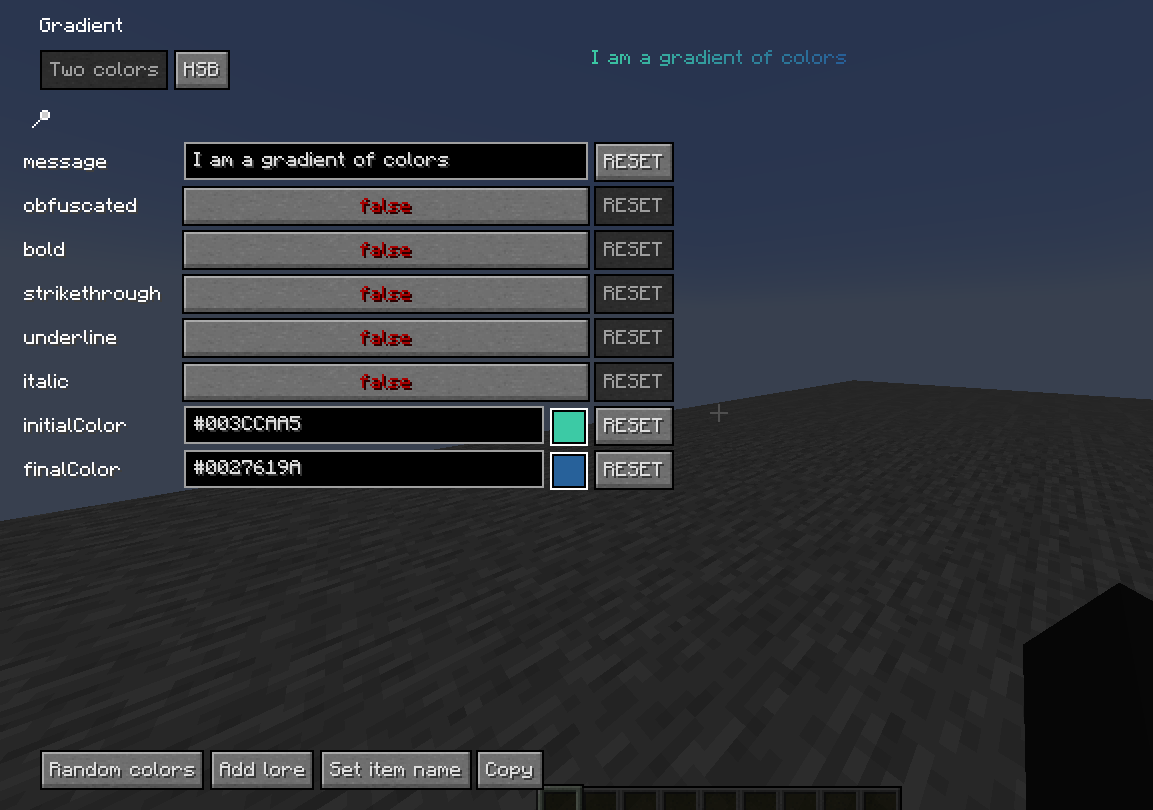
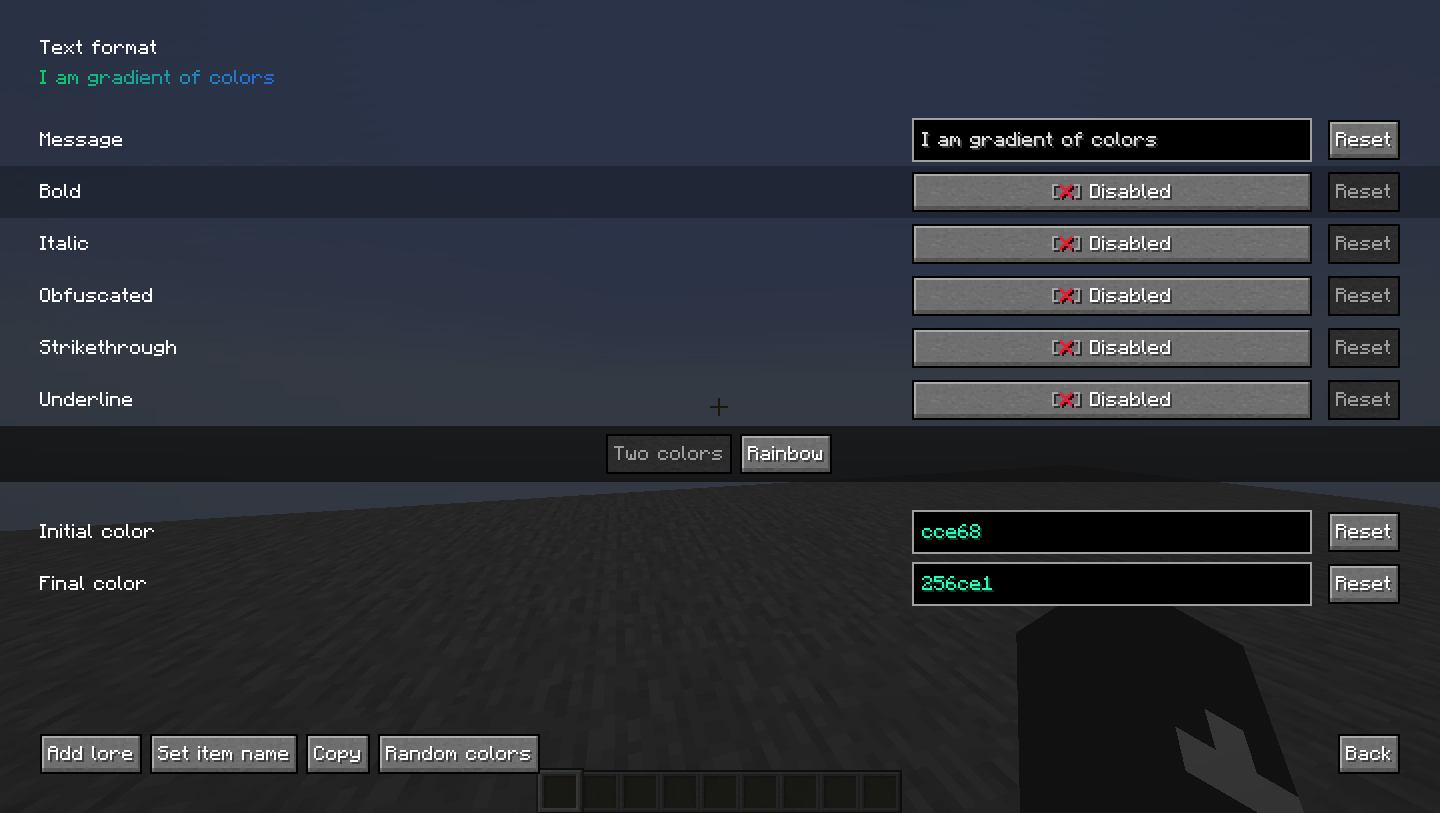
Update README.md and images * add special thanks, add link to modrinth and change dependency from malilib to owo-lib

diff --git a/README.md b/README.md
@@ -7,17 +7,19 @@
 
 
 [![Discord invite](https://img.shields.io/badge/Discord-5865F2?logo=discord&logoColor=white&style=for-the-badge&logo=appveyor)](https://discord.com/invite/y3GcaUNgCr)
-[![Downloads](https://img.shields.io/github/downloads/Zailer43/FZMM-Mod/total?color=red&logo=github&style=for-the-badge)](https://discord.com/invite/y3GcaUNgCr)
+[![Downloads](https://img.shields.io/github/downloads/Zailer43/FZMM-Mod/total?color=red&logo=github&style=for-the-badge)](https://github.com/Zailer43/FZMM-Mod/actions)
+[![Modrinth](https://modrinth-utils.vercel.app/api/badge/downloads?id=fzmm&logo=true&style=for-the-badge)](https://modrinth.com/mod/fzmm)
+
 
 A fabric mod that is mainly for editing or creating NBT of items in creative, but it also has a few utilities.
 
 </div>
 
 ## How to use?
-The default key to use the mod is `Z`, there are also some client-side commands with `/fzmm`
+The default key to use the mod is `Z` (can be changed in controls), there are also some client-side commands with `/fzmm`
 
 ## Dependencies
-* [Malilib](https://www.curseforge.com/minecraft/mc-mods/malilib)
+* [owo-lib](https://modrinth.com/mod/owo-lib)
 * [Fabric API](https://modrinth.com/mod/fabric-api)
 
 ## Imagetext
@@ -45,6 +47,7 @@ A generator of colored characters that make an image.
 ### GUI
 
 ![Imagetext gui](images/imagetext_gui.png)
+
 </details>
 
 ## Gradient
@@ -59,13 +62,14 @@ Note: when doing this I didn't know [PlaceHolderAPI](https://github.com/Patbox/F
 
 ![Two colors](images/gradient_two_colors.png)
 
-### HSB (rainbow)
+### Rainbow
 
-![hsb](images/gradient_hsb.png)
+![Rainbow](images/gradient_rainbow.png)
 
 ### Item example
 
 ![Item example](images/gradient_item.png)
+
 </details>
 
 ## Player Statue
@@ -93,6 +97,7 @@ It also allows 128x128 skins.
 ### GUI
 
 ![Player statue GUI](images/player_statue_gui.png)
+
 </details>
 
 ## Head generator
@@ -111,14 +116,17 @@ Disclaimer: the second layer of the original skin is removed (for now).
 ### Examples
 
 ![Examples](images/head_generator_examples.png)
+
 </details>
 
 ## Item groups
 
-### Unobtainable items
+### Operator utilities
 
-The real list of unobtainable items and not the list of generic mods
+An improved version of the one provided by Minecraft 1.19.3
 It includes:
+
+- Access only with creative, **op is not required**
 - Armor stand with arms
 - Small armor stand
 - Small armor stand with arms
@@ -126,10 +134,9 @@ It includes:
 - Invisible glow item frame
 - Special name tags with the description of use for each one
 - Unobtainable paints (1.19+)
-- All light states
 
 
-![Unobtainable items](images/unobtainable_items.png)
+![Unobtainable items](images/operator_utilities.png)
 
 ### Useful block states
 
@@ -151,6 +158,12 @@ A list of heads of all connected players.
   Examples:
   - [Corrected Mob Heads](https://modrinth.com/resourcepack/corrected-mob-heads)
   - [Shelf+](https://www.curseforge.com/minecraft/texture-packs/shelf)
+
+## Special thanks to:
+- [Mineskin](https://mineskin.org) for being able to make Player Statue and Head Generator possible thanks to their API
+- [Logstone & Jespertheend](https://statue.jespertheend.com) for creating Player Statue (or at least doing something known)
+- [owo-lib](https://github.com/wisp-forest/owo-lib) and its contributors for making a fairly complete library
+- The past, present and future contributors of FZMM mod, including people who report bugs or give me suggestions 
 
 ## Disclaimer
 
